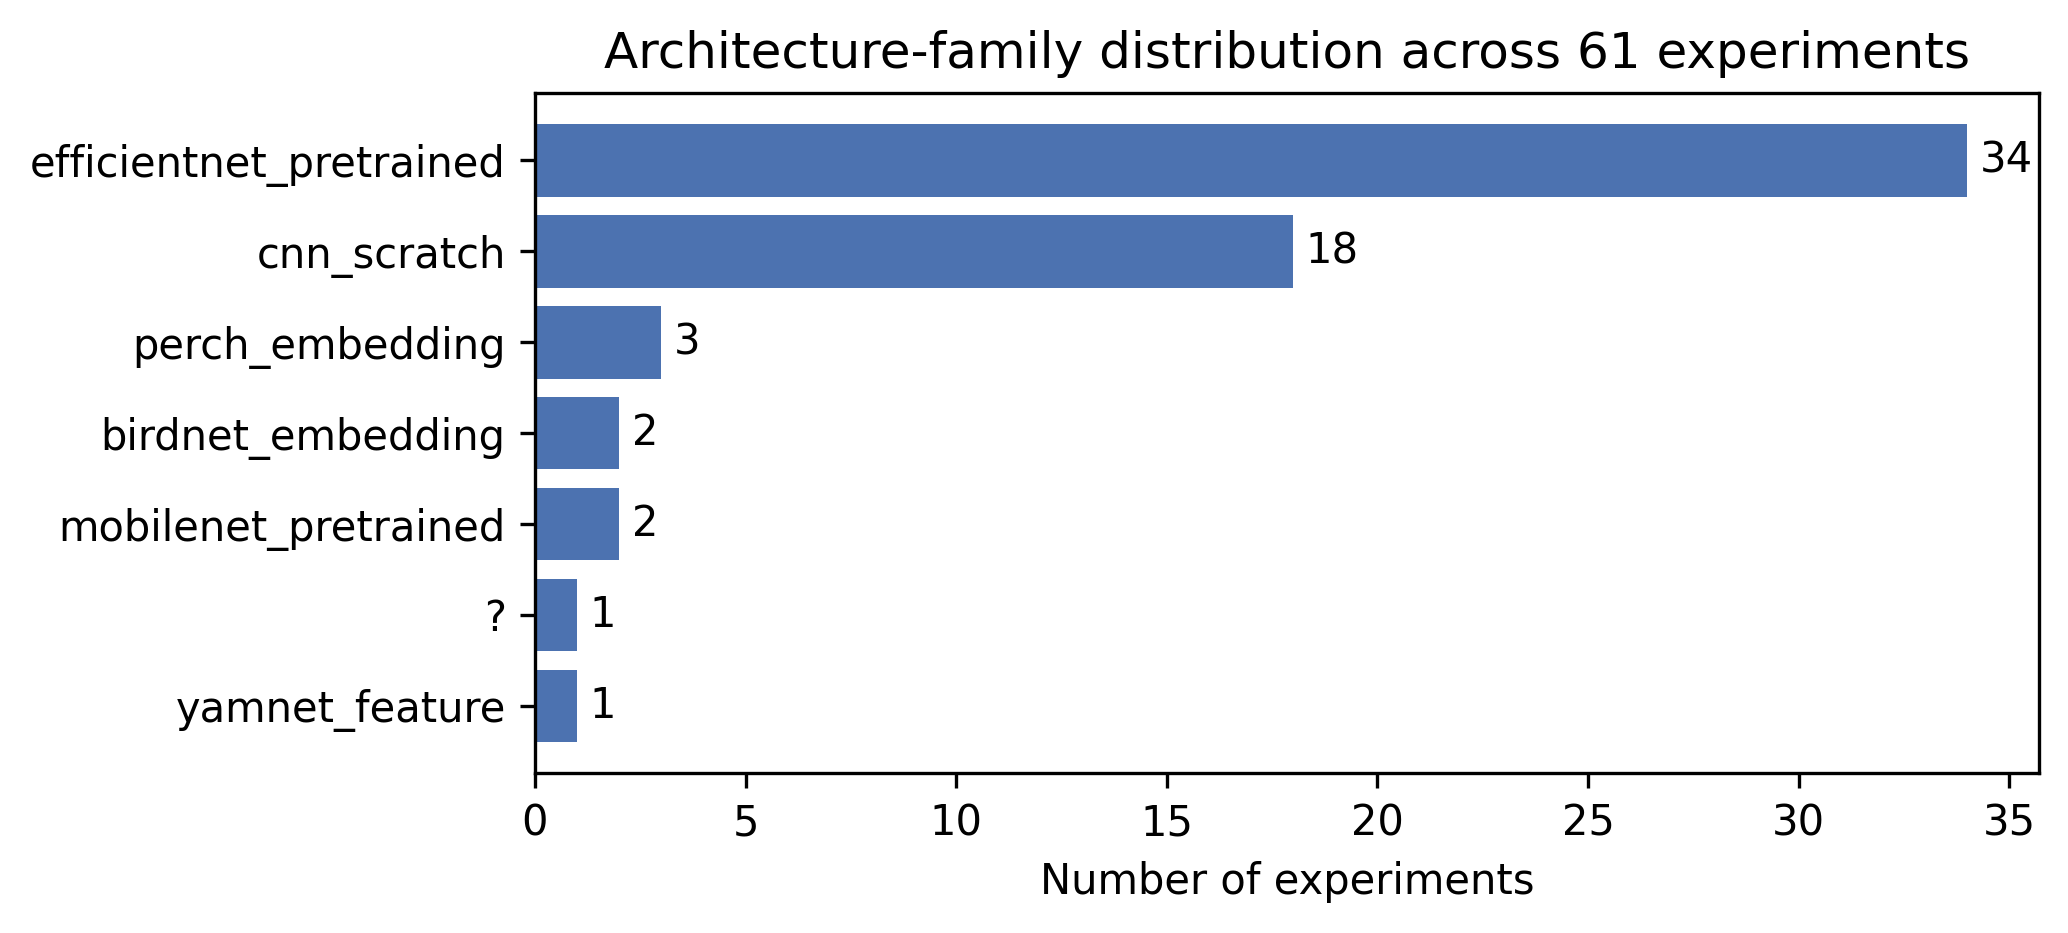
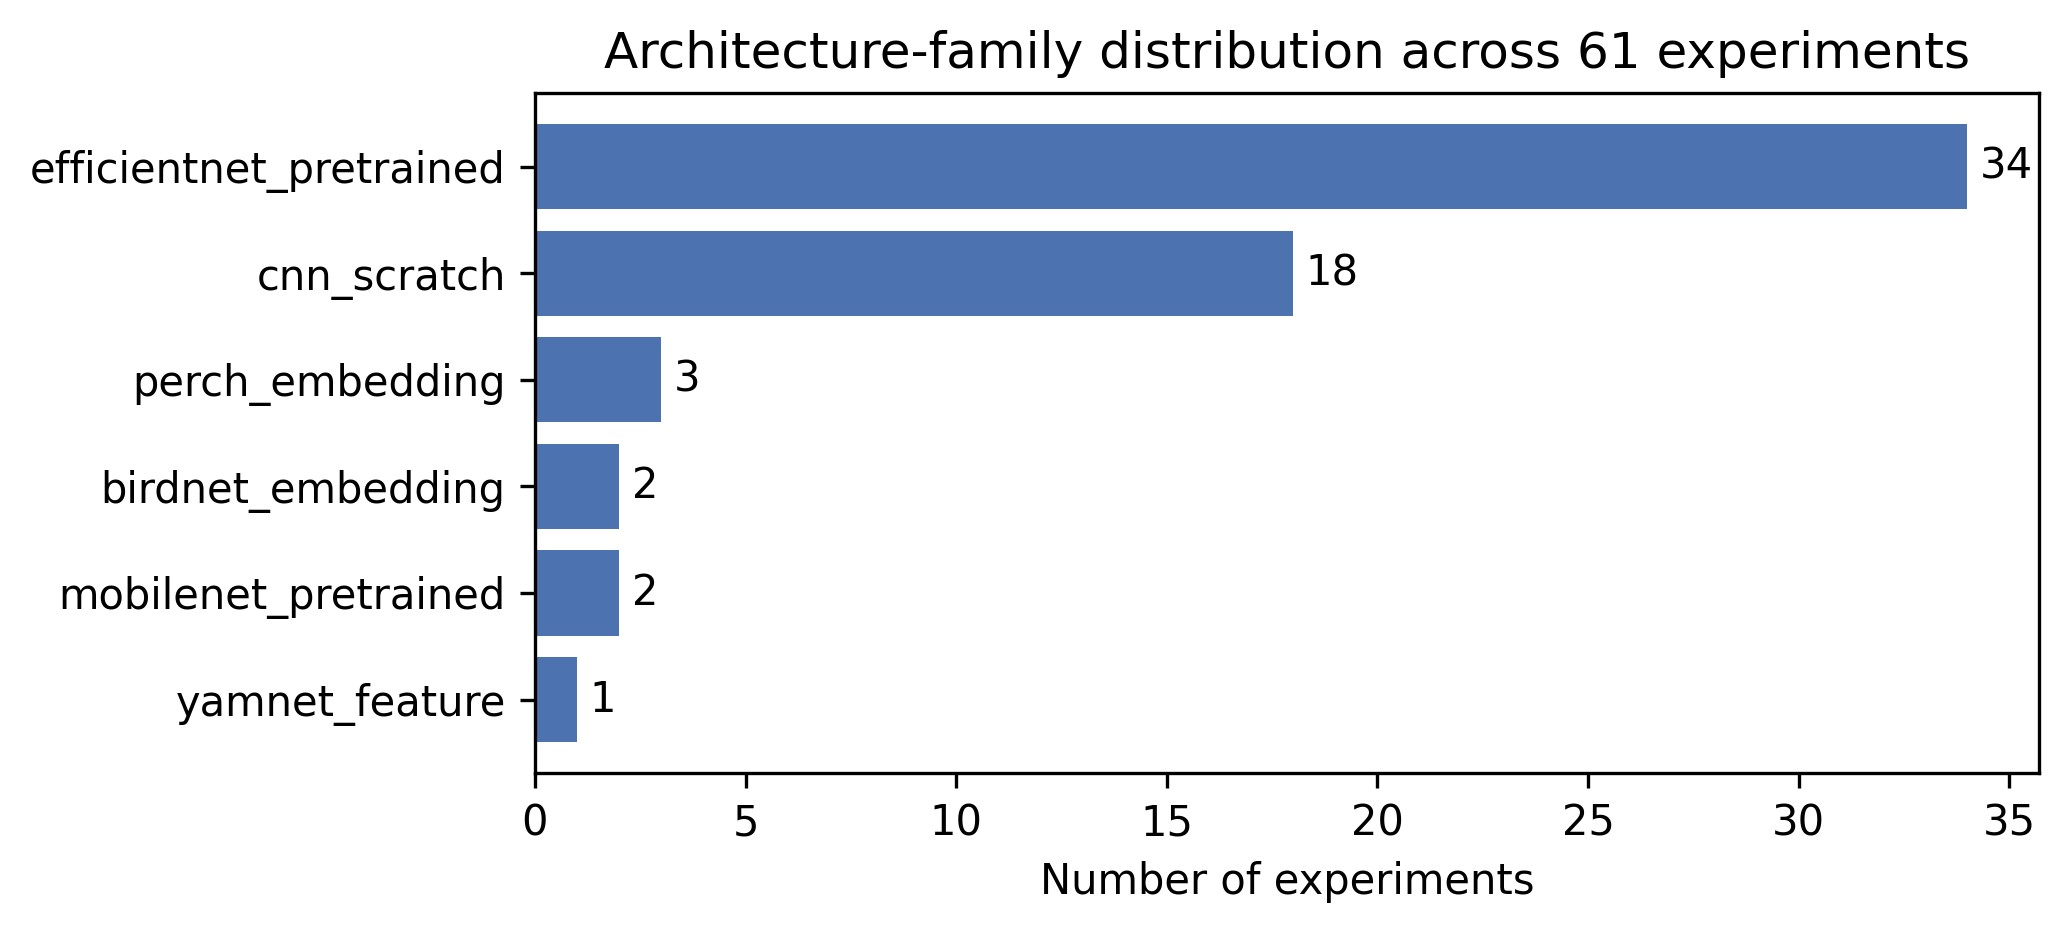
docs(report): fix §2 scratch-CNN claim + filter unnamed family bar
- Rewrites the 'what didn't' paragraph: cnn_scratch best val is 0.978
  (not 0.54), but its Kaggle public-LB (0.766) still trails the best
  EfficientNet (0.827).
- Filters the unlabelled '?' bar from family_distribution.png; the
  failed-before-proposal experiment is acknowledged in the caption.

diff --git a/docs/report/report.md b/docs/report/report.md
@@ -36,11 +36,11 @@ The agent runs a single closed loop: an outer **study** iterates **experiments**
 
 **Architectures tried.** Figure 2 shows the family-level distribution that the proposal LLM produced over those 61 experiments. The agent leant heavily on pretrained backbones: `efficientnet_pretrained` was proposed 34 times, more than every other family combined, with a handful of B0/B1/B2 variants and freezing strategies. The 18 `cnn_scratch` runs served as a cheap control — most appeared early in a new study before the LLM had a top-K win to imitate. The remaining nine experiments probed alternatives: three `perch_embedding`, two `birdnet_embedding`, two `mobilenet_pretrained`, and one `yamnet_feature`. Perch and BirdNET were the only domain-specific bird-audio embeddings the agent attempted as transfer-learning alternatives to ImageNet-pretrained CNNs.
 
-![Figure 2. Distribution of architecture families across 61 experiments. EfficientNet-pretrained variants dominate (34/61); scratch CNNs (18/61) served as a cheap control; domain-specific audio embeddings (Perch, BirdNET, YAMNet) were probed as transfer-learning alternatives.](figures/family_distribution.png)
+![Figure 2. Distribution of architecture families across 61 experiments. EfficientNet-pretrained variants dominate (34/61); scratch CNNs (18/61) served as a cheap control; domain-specific audio embeddings (Perch, BirdNET, YAMNet) were probed as transfer-learning alternatives. One experiment (`study_20260508_073048_50x5` / `exp_0000`) failed before the proposal stage and has no recorded family; it is omitted from this figure but counted in the totals.](figures/family_distribution.png)
 
 **What worked.** The headline number is the Kaggle public-LB score of **0.827**, achieved by `study_20260511_092457_n479` / `exp_0001`, an EfficientNet-B0 variant. The corresponding best private-LB submission, **0.817**, came from `study_20260510_174302_f6j2` / `exp_0002`, also an EfficientNet-B0 fine-tune-and-continue chain. Both winning experiments are pretrained EfficientNet-B0 backbones with dropout layers added inside `build_model`; both also chained from an earlier exp in the same study via the proposal schema's `init_from_experiment_id` field, which warm-starts a new experiment from a prior checkpoint and let the agent re-use a converged feature extractor instead of paying the cold-start cost on each iteration.
 
-**What didn't.** The 18 `cnn_scratch` experiments plateaued well below the EfficientNet pack on internal validation — their best primary score sat around 0.54 macro-ROC-AUC, essentially chance on this metric, while the EfficientNet runs cleared 0.99 within a few epochs. The single `yamnet_feature` experiment was tried once and discarded by the judge before a second attempt. The deeper freeze strategies (`freeze4` and similar) underperformed lighter freezes inside the same study, suggesting that freezing too many layers on a small dataset removes more capacity than it stabilises. On the codegen side, recovery patched syntactic mistakes reliably — the LLM-typo `Conv2x2d` -> `Conv2d` was a recurring autofix — but deeper logic bugs (e.g. wrong channel dimension, missing pool) typically triggered a judge-driven abort rather than a successful re-prompt.
+**What didn't.** The `cnn_scratch` family hides two regimes inside its 13 scored runs (best 0.978, median 0.950, worst 0.541): the two earliest scratch CNNs (`study_20260506_141846_fyzv`, `study_20260506_151144_4n80`) plateaued near chance (~0.54) over 10 epochs, while later runs cleared 0.94 once warm-starting kicked in. Even the best scratch CNN — `study_20260508_101037_kfdc` / `exp_0002` at val 0.978 — only scored public-LB **0.766**, below the best EfficientNet's **0.827**, so the family lost both on iteration efficiency and on Kaggle generalisation. The single `yamnet_feature` experiment was tried once and discarded by the judge. Deeper freeze strategies (`freeze4`) underperformed lighter freezes inside the same study, suggesting freezing too many layers on a small dataset removes more capacity than it stabilises. On the codegen side, recovery patched syntactic mistakes reliably — the LLM-typo `Conv2x2d` -> `Conv2d` was a recurring autofix — but deeper logic bugs typically triggered a judge-driven abort rather than a successful re-prompt.
 
 **Score progression.** Figure 3 plots the per-experiment internal val macro-ROC-AUC across the 61 runs (top panel) and the four Kaggle submissions (bottom panel). The top panel shows the agent converging on the EfficientNet family within the first dozen experiments and then sitting near the ceiling for the remainder of the run — the best val score, 0.998, comes from `study_20260507_200449_kzu4` / `exp_0002`. The bottom panel tells a sharper story: only 4 of the 61 experiments were ever submitted to Kaggle, and those four LB scores span 0.766 to 0.827 — far below the 0.998 val best. Two likely causes: (i) the val split is drawn from train clips that share recorder and location with their nearest neighbours in training, so the model is rewarded for memorising per-recorder cues that do not transfer; (ii) the hidden test set is soundscape audio where target species are rarer and noisier than the single-label train clips. Either way, the agent's iteration signal inside the loop is optimistic relative to the leaderboard. We revisit this gap in §5.
 
